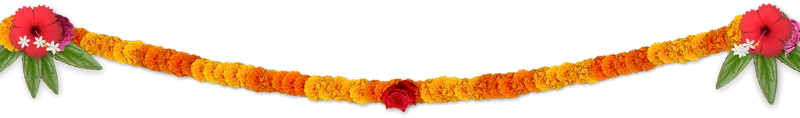
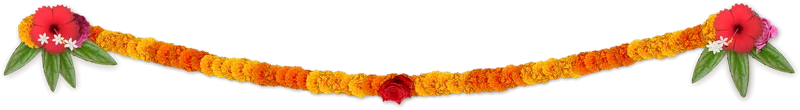
fix(mangal): whole Ganesh head, diyos outside facing in, light petal fall
Medallion frames the whole head; toran regenerated with complete end leaves;
desktop corner sprays sit outside the families card; diyos stand outside the
pillars facing the door; a sparse rose/marigold petal fall on the gate and
hero (paused offscreen, off for reduced motion).

Changed region(s): [[0.0, 0.0273, 1.0, 0.9545]]

diff --git a/src/themes/mangal/main.js b/src/themes/mangal/main.js
@@ -118,17 +118,19 @@ const album = [...pair, ...row, ...galCouple, ...galMore].slice(0, 14);
 // Ganesh (optional): one cut-out picture. In the gold medallion on the torana, then inside: shown large first
 // and softly behind the opening words after that.
 const ganeshRef = on(txt('ganesh.show')) ? S.img('hero.ganesh') : null;
-// The medallion frames his face: a picture may say where the face is (`face`, fractions) and how far to zoom in.
+// The medallion frames his head: a picture may say where the head's centre is (`face`, fractions) and how far to
+// zoom (`zoom`, 1 = the picture just covers the circle; below 1 shows more of it, e.g. the whole head and crown).
 const medalFit = (() => {
   const r = ganeshRef && typeof ganeshRef === 'object' ? ganeshRef : {};
   const z = Number(r.zoom) || 1;
-  if (!Array.isArray(r.face) || z <= 1 || !r.w || !r.h) return 'object-position:50% 4%';
-  // cover in a square, centred: where the face lands (box units), then the origin that scales it to the middle
+  if (!Array.isArray(r.face) || !r.w || !r.h) return 'object-position:50% 4%';
+  // contain in the square, then scale to `zoom` x cover and move the head's centre to the middle of the circle
   const ar = r.w / r.h;
-  const px = ar < 1 ? r.face[0] : r.face[0] * ar - (ar - 1) / 2;
-  const py = ar < 1 ? r.face[1] / ar - (1 / ar - 1) / 2 : r.face[1];
-  const o = (t, p) => (((t - z * p) / (1 - z)) * 100).toFixed(2);
-  return `object-position:50% 50%;transform-origin:${o(0.5, px)}% ${o(0.56, py)}%;transform:scale(${z})`;
+  const s = z * Math.max(ar, 1 / ar);
+  const px = ar < 1 ? 0.5 + (r.face[0] - 0.5) * ar : r.face[0];
+  const py = ar < 1 ? r.face[1] : 0.5 + (r.face[1] - 0.5) / ar;
+  const t = (p) => ((0.5 - 0.5 - s * (p - 0.5)) * 100).toFixed(2);
+  return `object-fit:contain;transform:translate(${t(px)}%, ${t(py)}%) scale(${s.toFixed(3)})`;
 })();
 const medal = (cls = '') => (ganeshRef
   ? `<div class="mg-medal ${cls}" aria-hidden="true"><span class="mg-medal__pic"><img style="${medalFit}" src="${esc(photoUrl(ganeshRef, 'sm'))}" srcset="${esc(photoUrl(ganeshRef, 'sm'))} 500w, ${esc(photoUrl(ganeshRef, 'lg'))} 1000w" sizes="240px" alt="" decoding="async" /></span>${medalSVG()}</div>`
@@ -258,7 +260,7 @@ main.innerHTML = `
     <div class="mg-spill" id="spill" aria-hidden="true"></div>
     <div class="mg-bells" id="bells" aria-hidden="true"></div>
     <div class="mg-garland" id="garland" aria-hidden="true"><img class="mg-drape" id="drape" src="${DECOR}drape-gate-md.webp" alt="" decoding="async" fetchpriority="high" /></div>
-    <div class="mg-kalashes" id="kalashes" aria-hidden="true">${['l', 'r'].map((k) => `<div class="mg-gkalash mg-gkalash--${k}"><img src="${DECOR}kalash-gate-sm.webp" srcset="${DECOR}kalash-gate-sm.webp 280w, ${DECOR}kalash-gate.webp 560w" sizes="(max-width: 700px) 90px, 240px" alt="" decoding="async" /></div>`).join('')}</div>
+    <div class="mg-kalashes" id="kalashes" aria-hidden="true">${['l', 'r'].map((k) => `<div class="mg-gkalash mg-gkalash--${k}"><img src="${DECOR}kalash-gate-sm.webp" srcset="${DECOR}kalash-gate-sm.webp 280w, ${DECOR}kalash-gate.webp 560w" sizes="(max-width: 700px) 90px, 240px" alt="" decoding="async" /></div>`).join('')}${diyo('mg-gdiyo mg-diyo--l')}${diyo('mg-gdiyo mg-diyo--r')}</div>
     <div class="mg-beam" id="beam" aria-hidden="true"></div>
     <div class="mg-threshold" id="threshold" aria-hidden="true"></div>
     <div class="mg-panel__content" id="pcontent">
@@ -322,7 +324,7 @@ main.innerHTML = `
 
   <section class="mg-sec mg-fam" id="families" aria-labelledby="fam-title">
     <div class="mg-fam__card mg-rise">
-      <img class="mg-fam__toran" src="${DECOR}swag-sm.webp" srcset="${DECOR}swag-sm.webp 800w, ${DECOR}swag.webp 1600w" sizes="(max-width: 700px) 96vw, 1040px" alt="" aria-hidden="true" loading="lazy" decoding="async" />
+      <img class="mg-fam__toran" src="${DECOR}swag-sm.webp" srcset="${DECOR}swag-sm.webp 800w, ${DECOR}swag.webp 1708w" sizes="(max-width: 700px) 110vw, 1300px" alt="" aria-hidden="true" loading="lazy" decoding="async" />
       <img class="mg-fam__spray mg-fam__spray--tl" src="${DECOR}corner-tl-sm.webp" srcset="${DECOR}corner-tl-sm.webp 400w, ${DECOR}corner-tl.webp 720w" sizes="200px" alt="" aria-hidden="true" loading="lazy" decoding="async" />
       <img class="mg-fam__spray mg-fam__spray--br" src="${DECOR}corner-br-sm.webp" srcset="${DECOR}corner-br-sm.webp 400w, ${DECOR}corner-br.webp 720w" sizes="200px" alt="" aria-hidden="true" loading="lazy" decoding="async" />
       <div class="mg-fam__body">
@@ -466,7 +468,7 @@ main.innerHTML = `
   </section>
 
   <footer class="mg-close" aria-label="Blessing">
-    <div class="mg-close__garland" aria-hidden="true"><img src="${DECOR}swag-sm.webp" srcset="${DECOR}swag-sm.webp 800w, ${DECOR}swag.webp 1600w" sizes="100vw" alt="" loading="lazy" decoding="async" /></div>
+    <div class="mg-close__garland" aria-hidden="true"><img src="${DECOR}swag-sm.webp" srcset="${DECOR}swag-sm.webp 800w, ${DECOR}swag.webp 1708w" sizes="100vw" alt="" loading="lazy" decoding="async" /></div>
     <div class="mg-close__row">
       <div class="mg-close__lamp">${diyo('mg-diyo--close', 120)}</div>
       <div class="mg-close__text mg-rise">
@@ -624,7 +626,8 @@ function computeLayout(W, H) {
     const a = Math.min(1.55, Math.max(1.0, (W / H) * 0.72));
     fw = (fh * a) / 1.09;
     kh = fh * 0.25;
-    const comp = fw * 1.09 + ((2 * kh) / KALASH.ar) * 0.8;
+    // (and, on the floor between each kalash and its pillar, a brass diyo)
+    const comp = fw * 1.09 + ((2 * kh) / KALASH.ar) * 0.8 + 2 * Math.min(72, kh * 0.3);
     const maxW = W - 2 * Math.max(16, W * 0.025);
     if (comp > maxW) { const k = maxW / comp; fw *= k; fh *= k; kh *= k; }
     fw = Math.round(fw); fh = Math.round(fh); kh = Math.round(kh);
@@ -641,7 +644,7 @@ function computeLayout(W, H) {
   const ox = ext + pw; const oy = th + lh; const ow = fw - 2 * pw; const oh = fh - oy - sill;
   const medal = Math.round(Math.min(th * 0.74, tw * 0.4));
   const medalY = Math.round(th * 0.58);
-  const diyoW = phone ? 30 : Math.round(Math.min(58, Math.max(40, ow * 0.05)));
+  const diyoW = phone ? 30 : Math.round(Math.min(72, Math.max(44, kh * 0.28)));
   const bellW = phone ? 22 : Math.round(Math.min(50, Math.max(28, ext * 0.95)));
   // the silk drape, hung under the lintel: its end rosettes sit on the pillar capitals
   const D = phone ? DRAPE.sm : DRAPE.lg;
@@ -656,11 +659,16 @@ function computeLayout(W, H) {
   const kw = Math.round(kh / KALASH.ar);
   const ground = H - thr;
   const kY = Math.round(ground - kh * KALASH.ground);
-  const kL = phone ? Math.max(2, fx - 2) : Math.max(8, Math.round(fx + ext + pw * 0.35 - kw));
+  // desktop: a diyo stands on the floor against each pillar's foot, facing the door; the kalash just outside it
+  const dH = Math.round(diyoW * 1.6);
+  const dXL = Math.round(fx + ext - diyoW * 1.04);
+  const dXR = W - dXL - diyoW;
+  const dY = Math.round(ground - dH * 0.985);
+  const kL = phone ? Math.max(2, fx - 2) : Math.max(8, Math.round(dXL + diyoW * 0.22 - kw));
   const kR = W - kL - kw;
   const ctop = phone ? 62 : Math.round(Math.max(72, H * 0.09));
   const cbottom = thr + (phone ? 6 : 10);
-  return { W, H, phone, beam, drop, thr, fw, pw, ext, lh, sill, tw, th, fx, fy, DW, fh, ox, oy, ow, oh, medal, medalY, diyoW, bellW, tX, tW, tY, tH, gTop, gBottom, kh, kw, kY, kL, kR, ctop, cbottom, ganesh: !!ganeshRef };
+  return { W, H, phone, beam, drop, thr, fw, pw, ext, lh, sill, tw, th, fx, fy, DW, fh, ox, oy, ow, oh, medal, medalY, diyoW, bellW, tX, tW, tY, tH, gTop, gBottom, kh, kw, kY, kL, kR, dH, dXL, dXR, dY, ctop, cbottom, ganesh: !!ganeshRef };
 }
 
 function placeBells(L) {
@@ -739,19 +747,73 @@ function applyLayout() {
   leafL.insertAdjacentHTML('afterbegin', leafSVG('l', lw, L.oh));
   leafR.insertAdjacentHTML('afterbegin', leafSVG('r', lw, L.oh));
   root.style.setProperty('--mg-diyo-w', `${L.diyoW}px`);
+  fallEl?.style.setProperty('--fall', `${H}px`);
   // on phones the kalash stand in front of the pillars, so the lamps move in beside them
   root.style.setProperty('--mg-diyo-in', `${L.phone ? Math.max(Math.round(L.diyoW * 0.7), L.kL + L.kw + 2 - (L.fx + L.ox)) : Math.round(L.diyoW * 0.7)}px`);
   door.querySelectorAll('.mg-diyos .mg-diyo').forEach((d) => { d.innerHTML = diyoSVG(L.diyoW, Math.round(L.diyoW * 1.6)); });
+  // the diyos stand inside the doorway on phones, on the floor outside it beside the pillars elsewhere
+  document.getElementById('diyos').hidden = !L.phone;
+  kalashEl.querySelectorAll('.mg-gdiyo').forEach((d, i) => {
+    d.hidden = L.phone;
+    if (L.phone) return;
+    Object.assign(d.style, { left: `${i ? L.dXR : L.dXL}px`, top: `${L.dY}px`, width: `${L.diyoW}px`, height: `${L.dH}px` });
+    d.querySelector('svg')?.remove();
+    d.insertAdjacentHTML('beforeend', diyoSVG(L.diyoW, L.dH));
+  });
   placeBells(L);
   fitGate();
   fitContent();
+  maskFall();
+}
+
+// ───────────────────────── A light fall of petals over the doorway and the opening card ─────────────────────────
+// A few rose and marigold petals and the odd leaf drift down from the top, slowly, swaying (CSS transforms only).
+// Paused when the tab is hidden or the doorway is scrolled away; none at all under reduced motion.
+const fallEl = (() => {
+  if (reduced) return null;
+  const box = document.createElement('div');
+  box.className = 'mg-fall';
+  box.setAttribute('aria-hidden', 'true');
+  const phone = root.clientWidth < 700;
+  const n = phone ? 5 : 9;
+  const kinds = ['marigold', 'rose', 'marigold', 'pink', 'marigold', 'rose', 'leaf', 'marigold', 'rose'];
+  const r = (a, b) => a + Math.random() * (b - a);
+  for (let i = 0; i < n; i++) {
+    const kind = kinds[i % kinds.length];
+    const size = Math.round((phone ? 14 : 19) * r(0.8, 1.25) * (kind === 'leaf' ? 1.15 : 1));
+    const fall = r(phone ? 13 : 15, phone ? 19 : 23);
+    const sway = r(3.2, 5.2);
+    const p = document.createElement('i');
+    p.className = 'mg-fall__p';
+    // spread across the width in lanes, so they never bunch up
+    p.style.cssText = `left:${(((i + r(0.15, 0.85)) / n) * 100).toFixed(1)}%;--dur:${fall.toFixed(1)}s;--del:${(-r(0, fall)).toFixed(1)}s;--dx:${Math.round(r(-60, 60))}px;--sdur:${sway.toFixed(1)}s;--sdel:${(-r(0, sway)).toFixed(1)}s;--sw:${Math.round(r(10, 26))}px;--r0:${Math.round(r(-40, 40))}deg`;
+    p.innerHTML = `<span>${petalSVG(kind, size)}</span>`;
+    box.append(p);
+  }
+  hero.append(box);
+  const sync = (off) => box.classList.toggle('is-off', off);
+  let heroOff = false;
+  new IntersectionObserver(([e]) => { heroOff = !e.isIntersecting; sync(heroOff || document.hidden); }).observe(hero);
+  document.addEventListener('visibilitychange', () => sync(heroOff || document.hidden));
+  return box;
+})();
+/** On the doorway the petals pass behind the plaque and the two buttons, never over their words. */
+function maskFall() {
+  if (!fallEl) return;
+  const h = hero.getBoundingClientRect();
+  const rs = [...gate.children].map((k) => k.getBoundingClientRect()).filter((r) => r.width);
+  if (!rs.length) return;
+  const l = Math.min(...rs.map((r) => r.left)) - 8; const t = Math.min(...rs.map((r) => r.top)) - 8;
+  const r = Math.max(...rs.map((x) => x.right)) + 8; const b = Math.max(...rs.map((x) => x.bottom)) + 8;
+  Object.entries({ '--mx': l - h.left, '--my': t - h.top, '--mw': r - l, '--mh': b - t })
+    .forEach(([k, v]) => fallEl.style.setProperty(k, `${Math.round(v)}px`));
 }
 
 // ───────────────────────── Opening: the doors swing open ─────────────────────────
 document.body.classList.add('mg-locked');
 window.scrollTo(0, 0);
 applyLayout();
-document.fonts?.ready.then(() => { fitGate(); fitContent(); });
+document.fonts?.ready.then(() => { fitGate(); fitContent(); maskFall(); });
 openBtn.disabled = false;
 quietBtn.disabled = false;
 document.body.classList.add('is-ready');

diff --git a/src/themes/mangal/mangal.css b/src/themes/mangal/mangal.css
@@ -180,7 +180,14 @@ body.is-open .mg-leaves { visibility: visible; }
 .mg-diyos { position: absolute; z-index: 6; height: 0; pointer-events: none; }
 .mg-diyos .mg-diyo { position: absolute; bottom: 2px; }
 .mg-diyos .mg-diyo--l { left: var(--mg-diyo-in, calc(var(--mg-diyo-w) * 0.7)); }
-.mg-diyos .mg-diyo--r { right: var(--mg-diyo-in, calc(var(--mg-diyo-w) * 0.7)); }
+.mg-diyos .mg-diyo--r { right: var(--mg-diyo-in, calc(var(--mg-diyo-w) * 0.7)); transform: scaleX(-1); } /* the two face each other */
+/* desktop: on the floor beside the pillars, spouts and flames turned in toward the door, with a soft contact shadow */
+.mg-kalashes .mg-gdiyo { position: absolute; display: block; }
+.mg-kalashes .mg-gdiyo[hidden] { display: none; }
+.mg-gdiyo.mg-diyo--r { transform: scaleX(-1); }
+.mg-gdiyo::before { content: ''; position: absolute; left: -2%; width: 104%; top: 93%; height: 11%; border-radius: 50%;
+  background: radial-gradient(closest-side, rgba(40, 8, 4, 0.5), rgba(40, 8, 4, 0.2) 60%, rgba(40, 8, 4, 0)); }
+.mg-gdiyo .mg-diyo__halo { width: 190%; opacity: 0.8; }
 .mg-diyo svg { display: block; overflow: visible; }
 .mg-flame { transform-box: fill-box; transform-origin: 50% 92%; animation: mg-flicker 2.6s ease-in-out infinite; }
 .mg-glow { animation: mg-glow 3.2s ease-in-out infinite; }
@@ -326,11 +333,18 @@ body.is-open .mg-leaves { visibility: visible; }
 }
 .mg-fam__card::before { content: ''; position: absolute; inset: 14px; border: 1px solid rgba(244, 216, 150, 0.7); pointer-events: none; }
 .mg-fam__card::after { content: ''; position: absolute; inset: 19px; border: 1px solid rgba(244, 216, 150, 0.3); pointer-events: none; }
-.mg-fam__toran { position: absolute; z-index: 2; left: 50%; top: -18px; width: calc(100% + 34px); max-width: none; height: auto; translate: -50% 0; pointer-events: none; filter: drop-shadow(0 6px 6px rgba(30, 0, 4, 0.35)); }
-.mg-fam__spray { position: absolute; z-index: 2; width: clamp(110px, 13vw, 190px); height: auto; pointer-events: none; filter: drop-shadow(0 4px 5px rgba(30, 0, 4, 0.3)); }
-.mg-fam__spray--tl { left: -34px; bottom: -30px; transform: scaleY(-1); } /* outside the frame, resting on its corner */
-.mg-fam__spray--br { right: -34px; bottom: -30px; }
-.mg-fam__body { position: relative; z-index: 1; padding: calc((100% - 40px) * 0.147 + 34px) clamp(24px, 6vw, 90px) clamp(70px, 9vh, 104px); text-align: center; }
+.mg-fam__card { --te: 22px; }
+@media (min-width: 1360px) { .mg-fam__card { --te: 8px; } }
+/* the toran: its end rosettes (at 6.73% and 93.27% of the swag art, 25.96% down; height 13.76% of its width) sit on
+   the frame's border, --te in from each side, with their leaves whole */
+.mg-fam__toran { position: absolute; z-index: 2; left: 50%; top: 6px; width: calc((100% - 2 * var(--te)) / 0.8654); max-width: none; height: auto; translate: -50% -25.96%; pointer-events: none; filter: drop-shadow(0 6px 6px rgba(30, 0, 4, 0.35)); }
+/* the two sprays stand OUTSIDE the frame, hugging its bottom corners: the empty corner of each spray's L sits on the
+   frame's outer corner, --sg out (the arms touch the gold ring, never the red). As fractions of the spray's width:
+   br corner at x 61.4%, y 47.5% (height 80.8%); the flipped tl at x 37.8%, y 46.8% (height 81.5%). */
+.mg-fam__spray { --sg: 5px; --sp: min(210px, 13vw, (max(5vw, (100vw - 1120px) / 2) - 9px) / 0.39); position: absolute; z-index: 2; width: var(--sp); height: auto; pointer-events: none; filter: drop-shadow(0 4px 5px rgba(30, 0, 4, 0.3)); }
+.mg-fam__spray--tl { left: calc(-1 * (var(--sg) + 0.3778 * var(--sp))); bottom: calc(-1 * (var(--sg) + 0.3473 * var(--sp))); transform: scaleY(-1); }
+.mg-fam__spray--br { right: calc(-1 * (var(--sg) + 0.3861 * var(--sp))); bottom: calc(-1 * (var(--sg) + 0.3333 * var(--sp))); }
+.mg-fam__body { position: relative; z-index: 1; padding: calc((100% - 2 * var(--te)) * 0.1177 + 50px) clamp(24px, 6vw, 90px) clamp(70px, 9vh, 104px); text-align: center; }
 .mg-fam__body > .mg-div { display: block; margin: 0 auto 12px; }
 .mg-fam__body .mg-h2 { color: #F6D88E; }
 .mg-fam__grid { display: grid; grid-template-columns: minmax(0, 1fr) clamp(130px, 15vw, 210px) minmax(0, 1fr); gap: clamp(16px, 3vw, 44px); align-items: start; margin-top: clamp(30px, 5vh, 50px); }
@@ -435,7 +449,7 @@ body.is-open .mg-leaves { visibility: visible; }
 /* closing: the blessing under a full-width marigold garland, between two lit diyos, then a Dhaka band */
 .mg-close { position: relative; padding: calc(100vw * 0.147 + 60px) clamp(16px, 5vw, 72px) calc(28px + var(--safe-b)); text-align: center; color: #FFF1CC; background: var(--mg-damask) 0 0 / 84px repeat, linear-gradient(#5C0911, #4A060C); background-blend-mode: soft-light, normal; overflow: hidden; }
 .mg-close__garland { position: absolute; left: 0; right: 0; top: 0; pointer-events: none; }
-.mg-close__garland img { display: block; width: 100%; height: auto; filter: drop-shadow(0 8px 8px rgba(20, 0, 2, 0.35)); }
+.mg-close__garland img { display: block; width: 105.44%; max-width: none; margin-left: -2.72%; height: auto; filter: drop-shadow(0 8px 8px rgba(20, 0, 2, 0.35)); }
 .mg-close__row { display: grid; grid-template-columns: 1fr minmax(0, 640px) 1fr; align-items: end; gap: clamp(16px, 4vw, 60px); max-width: 1180px; margin: 0 auto; }
 .mg-close__lamp { display: flex; justify-content: center; }
 .mg-close__lamp:first-child { justify-content: flex-end; }
@@ -477,6 +491,23 @@ body.is-open .mg-leaves { visibility: visible; }
 .mg-lb__prev { left: 10px; top: 50%; translate: 0 -50%; }
 .mg-lb__next { right: 10px; top: 50%; translate: 0 -50%; }
 
+/* the light, continuous fall over the doorway and the opening card: behind the opening words, never clickable */
+.mg-fall { position: absolute; inset: 0; z-index: 8; overflow: hidden; pointer-events: none; contain: strict; }
+.mg-fall__p { position: absolute; top: 0; display: block; opacity: 0.92; will-change: transform;
+  animation: mg-fall var(--dur) cubic-bezier(0.3, 0.1, 0.6, 0.9) var(--del) infinite; }
+.mg-fall__p span { display: block; will-change: transform; animation: mg-sway var(--sdur) cubic-bezier(0.45, 0, 0.55, 1) var(--sdel) infinite alternate; }
+.mg-fall__p svg { display: block; filter: drop-shadow(1px 2px 1.5px rgba(40, 6, 4, 0.22)); }
+.mg-fall.is-off { visibility: hidden; }
+/* on the doorway they pass behind the plaque and the buttons (a hole in the layer's mask over them) */
+body:not(.is-opening):not(.is-open) .mg-fall {
+  -webkit-mask-image: linear-gradient(#000 0 0), linear-gradient(#000 0 0); mask-image: linear-gradient(#000 0 0), linear-gradient(#000 0 0);
+  -webkit-mask-position: 0 0, var(--mx, 0) var(--my, 0); mask-position: 0 0, var(--mx, 0) var(--my, 0);
+  -webkit-mask-size: 100% 100%, var(--mw, 0) var(--mh, 0); mask-size: 100% 100%, var(--mw, 0) var(--mh, 0);
+  -webkit-mask-repeat: no-repeat; mask-repeat: no-repeat;
+  -webkit-mask-composite: xor; mask-composite: exclude; }
+.mg-fall.is-off .mg-fall__p, .mg-fall.is-off .mg-fall__p span { animation-play-state: paused; }
+@keyframes mg-fall { from { transform: translate3d(0, -48px, 0); } to { transform: translate3d(var(--dx), calc(var(--fall, 100vh) + 24px), 0); } }
+@keyframes mg-sway { from { transform: translateX(calc(var(--sw) * -1)) rotate(var(--r0)) rotateY(0deg); } to { transform: translateX(var(--sw)) rotate(calc(var(--r0) + 70deg)) rotateY(160deg); } }
 .mg-petals { position: fixed; inset: 0; z-index: 40; pointer-events: none; overflow: hidden; }
 .mg-petals i { position: absolute; display: block; will-change: transform, opacity; opacity: 0; }
 .mg-petals svg { display: block; }
@@ -526,11 +557,11 @@ body.is-open .mg-leaves { visibility: visible; }
   .mg-fam__card { --tw: calc(100vw - 24px); }
   .mg-fam__card::before { inset: 10px; }
   .mg-fam__card::after { inset: 14px; }
-  .mg-fam__toran { top: -10px; width: calc(100% + 18px); }
+  .mg-fam__card { --te: 12px; }
   .mg-fam__spray { width: 92px; }
   .mg-fam__spray--tl { left: -14px; bottom: -18px; }
   .mg-fam__spray--br { right: -14px; bottom: -18px; }
-  .mg-fam__body { padding: calc((100% - 20px) * 0.147 + 22px) 22px 86px; }
+  .mg-fam__body { padding: calc((100% - 2 * var(--te)) * 0.1177 + 32px) 22px 86px; }
   .mg-fam__grid { grid-template-columns: 1fr; gap: 14px; }
   .mg-fam__side { padding-top: 0; }
   .mg-fam__kalash { width: 112px; }
@@ -550,4 +581,5 @@ body.is-open .mg-leaves { visibility: visible; }
   .mg-strip__view .mg-strip__track { animation: none !important; }
   .mg-scratch__foil { transition: none; }
   .mg-flame, .mg-glow, .mg-diyo__halo, body.is-open .mg-cue i { animation: none; }
+  .mg-fall { display: none; }
 }

diff --git a/src/themes/mangal/slots.js b/src/themes/mangal/slots.js
@@ -14,8 +14,8 @@ export default {
   images: {
     'hero.ganesh': {
       label: 'Ganesh (the torana medallion, then large inside the doors and softly behind the names)', kind: 'detail',
-      default: { lg: '/themes/mangal/ganesh-card-1000.webp', sm: '/themes/mangal/ganesh-card-500.webp', w: 1000, h: 1793, face: [0.5, 0.4], zoom: 1.25, alt: 'Shri Ganesh with a golden crown and marigold garland' },
-      note: 'A cut-out picture with a transparent background works best (PNG or WebP); the medallion shows his head and shoulders. A public-domain hand-coloured Ganesh (1842) by default. To remove it, type “off” in the Ganesh line.',
+      default: { lg: '/themes/mangal/ganesh-card-1000.webp', sm: '/themes/mangal/ganesh-card-500.webp', w: 1000, h: 1793, face: [0.5, 0.41], zoom: 0.74, alt: 'Shri Ganesh with a golden crown and marigold garland' },
+      note: 'A cut-out picture with a transparent background works best (PNG or WebP); the medallion shows his whole head, crown to trunk. A public-domain hand-coloured Ganesh (1842) by default. To remove it, type “off” in the Ganesh line.',
     },
     ...Object.fromEntries([
       couple('couple.lead', 'Main photo, just below the doors (gold temple-arch frame)', 0, 'The couple’s best photo, in its own section under शुभ विवाह. Shown whole under a gold temple-arch crown. Portrait works best.'),

diff --git a/src/themes/mangal/art.js b/src/themes/mangal/art.js
@@ -514,6 +514,9 @@ export function dividerSVG(w = 220) {
 
 /** Falling petal shapes (marigold and rose). */
 export function petalSVG(kind, size) {
+  if (kind === 'leaf') {
+    return `<svg width="${size}" height="${size}" viewBox="0 0 20 20" aria-hidden="true"><path d="M10 1C14.5 5 15.5 11 10 19C4.5 11 5.5 5 10 1Z" fill="#4F8A3C" stroke="#2F5E24" stroke-width=".7"/><path d="M10 3V17" stroke="#C9E0A4" stroke-opacity=".6" stroke-width=".6" fill="none"/></svg>`;
+  }
   const fill = kind === 'rose' ? '#C3172A' : kind === 'pink' ? '#E35A7E' : '#F29A1F';
   const edge = kind === 'rose' ? '#8E0D1C' : kind === 'pink' ? '#B8355A' : '#D9700F';
   return `<svg width="${size}" height="${size}" viewBox="0 0 20 20" aria-hidden="true"><path d="M10 1C15 4 18 9 16 14C14 18 6 18 4 14C2 9 5 4 10 1Z" fill="${fill}" stroke="${edge}" stroke-width=".8"/><path d="M10 3C9 8 9 12 10 17" stroke="${edge}" stroke-opacity=".45" stroke-width=".6" fill="none"/></svg>`;
